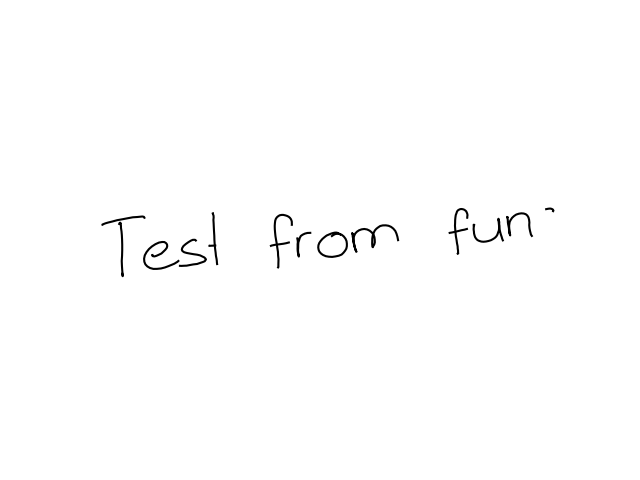
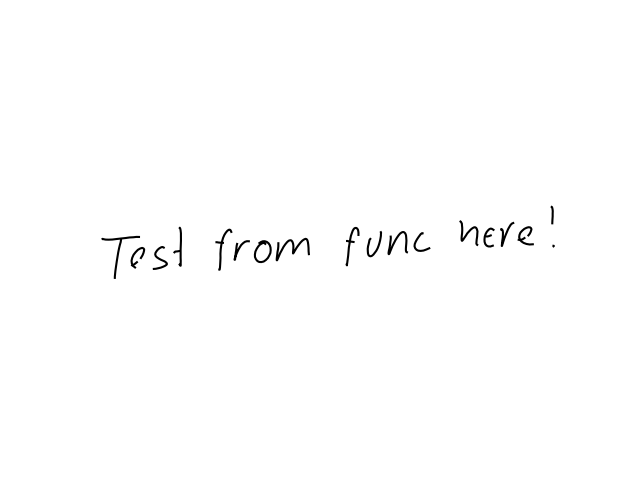
hotfix name, update readme

Changed region(s): [[0.1562, 0.4375, 0.875, 0.5625]]

diff --git a/generate.py b/generate.py
@@ -108,7 +108,7 @@ def sample_text(sess, args_text, translation, style=None, bias=None, force=None)
     return phi_data, window_data, kappa_data, stroke_data, coords
 
 
-def main(model_path=os.path.join('pretrained', 'model-29'),
+def generate(model_path=os.path.join('pretrained', 'model-29'),
         text=None,
         filename=None,
         style=None,
@@ -164,4 +164,4 @@ def main(model_path=os.path.join('pretrained', 'model-29'),
             if text is not None:
                 break
 
-main(text='Test from func', filename='testing_func', style=1, bias=1., force=False)
+# generate(text='Test from func here!', filename='testing_func', style=7, bias=1., force=False)

diff --git a/README.md b/README.md
@@ -30,29 +30,13 @@ With default settings training took about 5h (using tensorflow 1.2, with GTX 108
 
 
 #### 4. Generate handwriting!
-```
-python generate.py --model=path_to_model
-```
-
-When model is trained you can use `generate.py` scipt to test how it works. Without providing `--text` argument this script will ask you what to generate in a loop.
-
 Additional options for generation:
-* `--bias` (`float`) - with higher bias generated handwriting is more _clear_ so to speak (read paper for more info)
-* `--noinfo` - plots only generated handwriting (without attention window)
-* `--animation` - animation of writing
-* `--style` - style of handwriting, `int` from 0 to 7 (functionality added thanks to [@kristofbc](https://github.com/kristofbc), you can look how each style looks like in `imgs` folder)
+* `bias` (`float`) - with higher bias generated handwriting is more _clear_ so to speak (read paper for more info)
+* `noinfo` - plots only generated handwriting (without attention window)
+* `animation` - animation of writing
+* `style` - style of handwriting, `int` from 0 to 7 (functionality added thanks to [@kristofbc](https://github.com/kristofbc), you can look how each style looks like in `imgs` folder)
 
 #### Examples
 ```
-python generate.py --noinfo --text="this was generated by computer" --bias=1.
+generate(text='Test from func here!', filename='testing_func', style=7, bias=1., force=False)
 ```
-
-![example-1](https://github.com/Grzego/handwriting-generation/blob/master/imgs/example-1.PNG)
-
-```
-python generate.py --noinfo --animation --text="example of animation " --bias=1.
-```
-
-![example-2](https://github.com/Grzego/handwriting-generation/blob/master/imgs/example-2.gif)
-
-Any feedback is welcome :smile:
